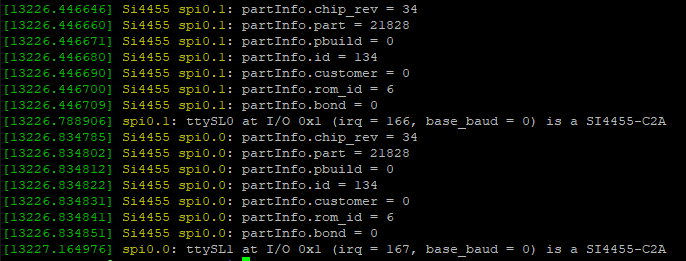
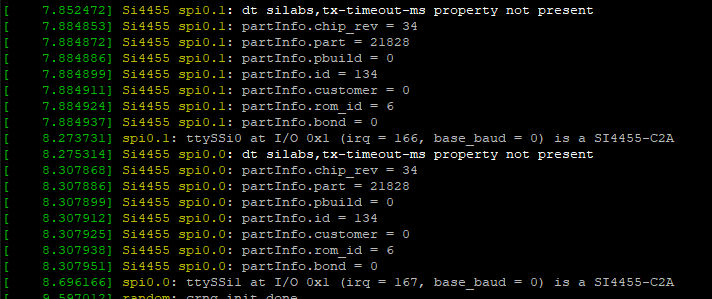
- fixed: drivers: serial: si4455: silabs,tx-timeout property name changed    to silabs,tx-timeout-ms  - fixed: dt: bindings: silabs,si4455: silabs,tx-timeout property name    changed to silabs,tx-timeout-ms

Changed region(s): [[0.0, 0.0, 0.9796, 1.0]]

diff --git a/src/linux/drivers/tty/serial/si4455.c b/src/linux/drivers/tty/serial/si4455.c
@@ -25,7 +25,7 @@
 #include <linux/debugfs.h>
 
 #define SI4455_NAME						"Si4455"
-#define SI4455_DEV_NAME						"ttySL"
+#define SI4455_DEV_NAME						"ttySSi"
 #define SI4455_UART_NRMAX					16
 #define SI4455_FIFO_SIZE					64
 
@@ -1451,10 +1451,10 @@ static int si4455_probe(struct device *dev,
 	}
 	s->rx_channel = be32_to_cpup(of_ptr);
 
-	of_ptr = of_get_property(dev->of_node, "silabs,tx-timeout", NULL);
+	of_ptr = of_get_property(dev->of_node, "silabs,tx-timeout-ms", NULL);
 	if (IS_ERR_OR_NULL(of_ptr)) {
 		s->tx_wd_timeout = 100;
-		dev_warn(dev, "dt silabs,tx-timeout property not present\n");
+		dev_warn(dev, "dt silabs,tx-timeout-ms property not present\n");
 	} else {
 		s->tx_wd_timeout = be32_to_cpup(of_ptr);
 	}

diff --git a/README.md b/README.md
@@ -99,7 +99,7 @@ Rules:
 ### 2.3. device
 
 The driver instances are comes up under `/dev` as
->/dev/ttySL`X`
+>/dev/ttySSi`X`
 
 , where `X` is the index of instance.
 
@@ -114,7 +114,7 @@ The si4455 driver uses configuration parameters and maintains statistics inside 
 **current_rssi**
 
 Path:
->/sys/class/tty/ttySL`X`/device/current_rssi
+>/sys/class/tty/ttySSi`X`/device/current_rssi
 
 Description:
 >Shows the latest rssi value measured by chip.<br>
@@ -123,7 +123,7 @@ To convert the value to dBm. See chapter *3.2.1. Received Signal Strength Indica
 **package_size**
 
 Path:
->/sys/class/tty/ttySL`X`/device/package_size
+>/sys/class/tty/ttySSi`X`/device/package_size
 
 Description:
 >Shows or stores the package size.<br>
@@ -133,7 +133,7 @@ Variable package size (package_size = 0)
 **rx_channel**
 
 Path:
->/sys/class/tty/ttySL`X`/device/rx_channel
+>/sys/class/tty/ttySSi`X`/device/rx_channel
 
 Description:
 >Shows or stores the receive channel index.<br>
@@ -142,7 +142,7 @@ The new value applied immediately.
 **tx_channel**
 
 Path:
->/sys/class/tty/ttySL`X`/device/tx_channel
+>/sys/class/tty/ttySSi`X`/device/tx_channel
 
 Description:
 >Shows or stores transmit channel index.<br>
@@ -151,7 +151,7 @@ The new value will be used on next data transmit.
 **tx_timeout**
 
 Path:
->/sys/class/tty/ttySL`X`/device/tx_timeout
+>/sys/class/tty/ttySSi`X`/device/tx_timeout
 
 Description:
 >Shows or stores the transmit timeout.<br>
@@ -334,13 +334,13 @@ If probe success after boot, dmesg:<br>
 ![dmesg](img/rpi_si4455_dmesg.png)
 
 The new devices are under `/dev`:<br>
-![ls -la /dev | grep ttySL](img/rpi_si4455_dev.png)
+![ls -la /dev | grep ttySSi](img/rpi_si4455_dev.png)
 
 If the new devices are visible under `/dev`, they are ready to use as a serial device.<br>
 Testing with [minicom](https://linux.die.net/man/1/minicom) or [tio](http://tio.github.io/):
 
->tio -f none /dev/ttySL0<br>
-![tio -f none /dev/ttySL0](img/rpi_si4455_tio.png)
+>tio -f none /dev/ttySSi0<br>
+![tio -f none /dev/ttySSi0](img/rpi_si4455_tio.png)
 
->minicom -c on -D /dev/ttySL1<br>
-![minicom -c on -D /dev/ttySL1](img/rpi_si4455_minicom.png)
+>minicom -c on -D /dev/ttySSi1<br>
+![minicom -c on -D /dev/ttySSi1](img/rpi_si4455_minicom.png)
